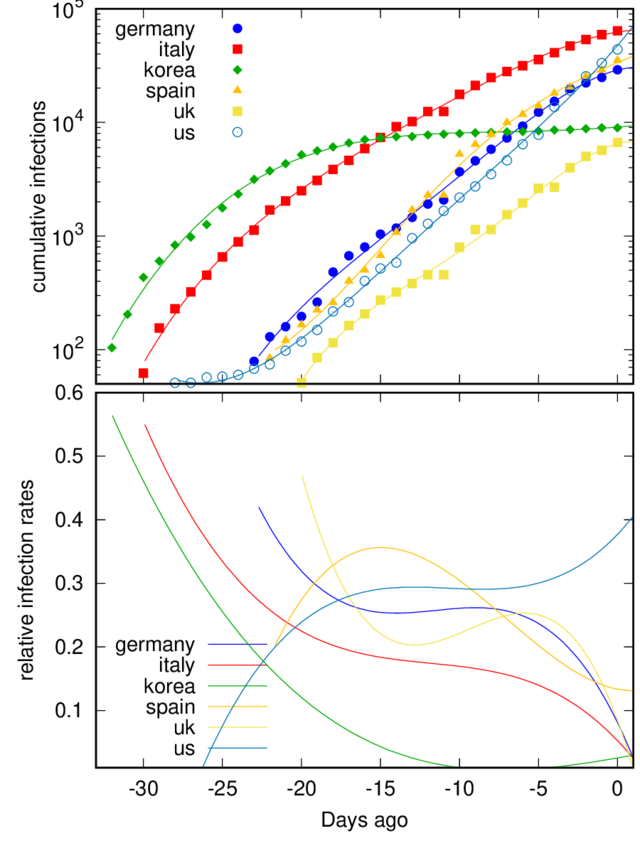
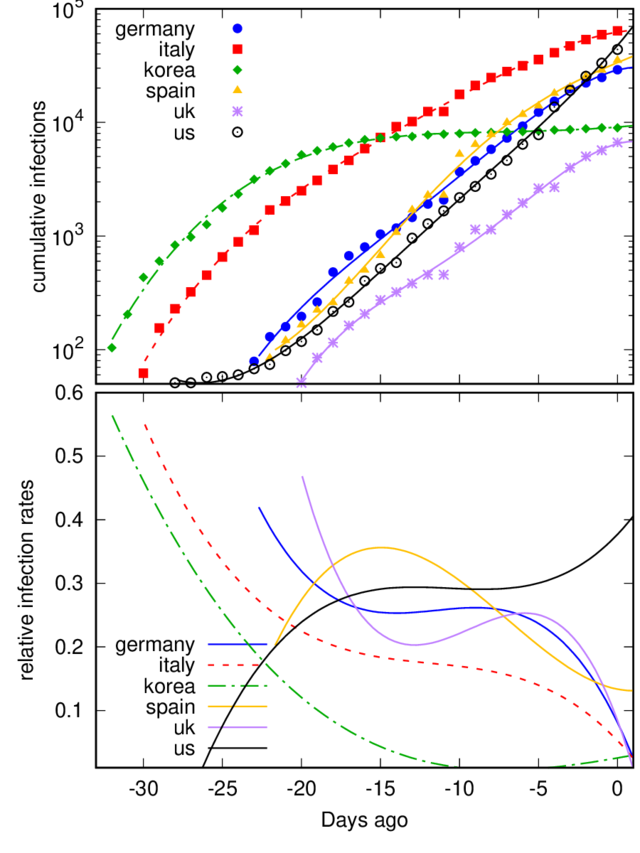
Tue 24 Mar 2020 08:54:43 PM CET

diff --git a/README.md b/README.md
@@ -7,7 +7,7 @@ Here is some regularly updated analysis of the COVID-19 outbreak.
 
 Data from: https://github.com/CSSEGISandData/COVID-19
 
- *UPDATED: Tue 24 Mar 2020 12:30:56 PM CET*
+ *UPDATED: Tue 24 Mar 2020 08:52:24 PM CET*
 
 ## The growth rate of infection
 
@@ -33,12 +33,12 @@ steadily.
 *Infection rates doubled in :*
 |Country | days until doubling of infections| 
 | --- | --- |
-|germany: |8.57 days|
-|italy: |13.19 days|
-|korea: |27.36 days|
-|spain: |5.19 days|
-|uk: |8.22 days|
-|us: |1.84 days|
+|germany |5.44 days|
+|italy |9.05 days|
+|korea |32.78 days|
+|spain |4.93 days|
+|uk |4.82 days|
+|us |1.96 days|
 
 
 
